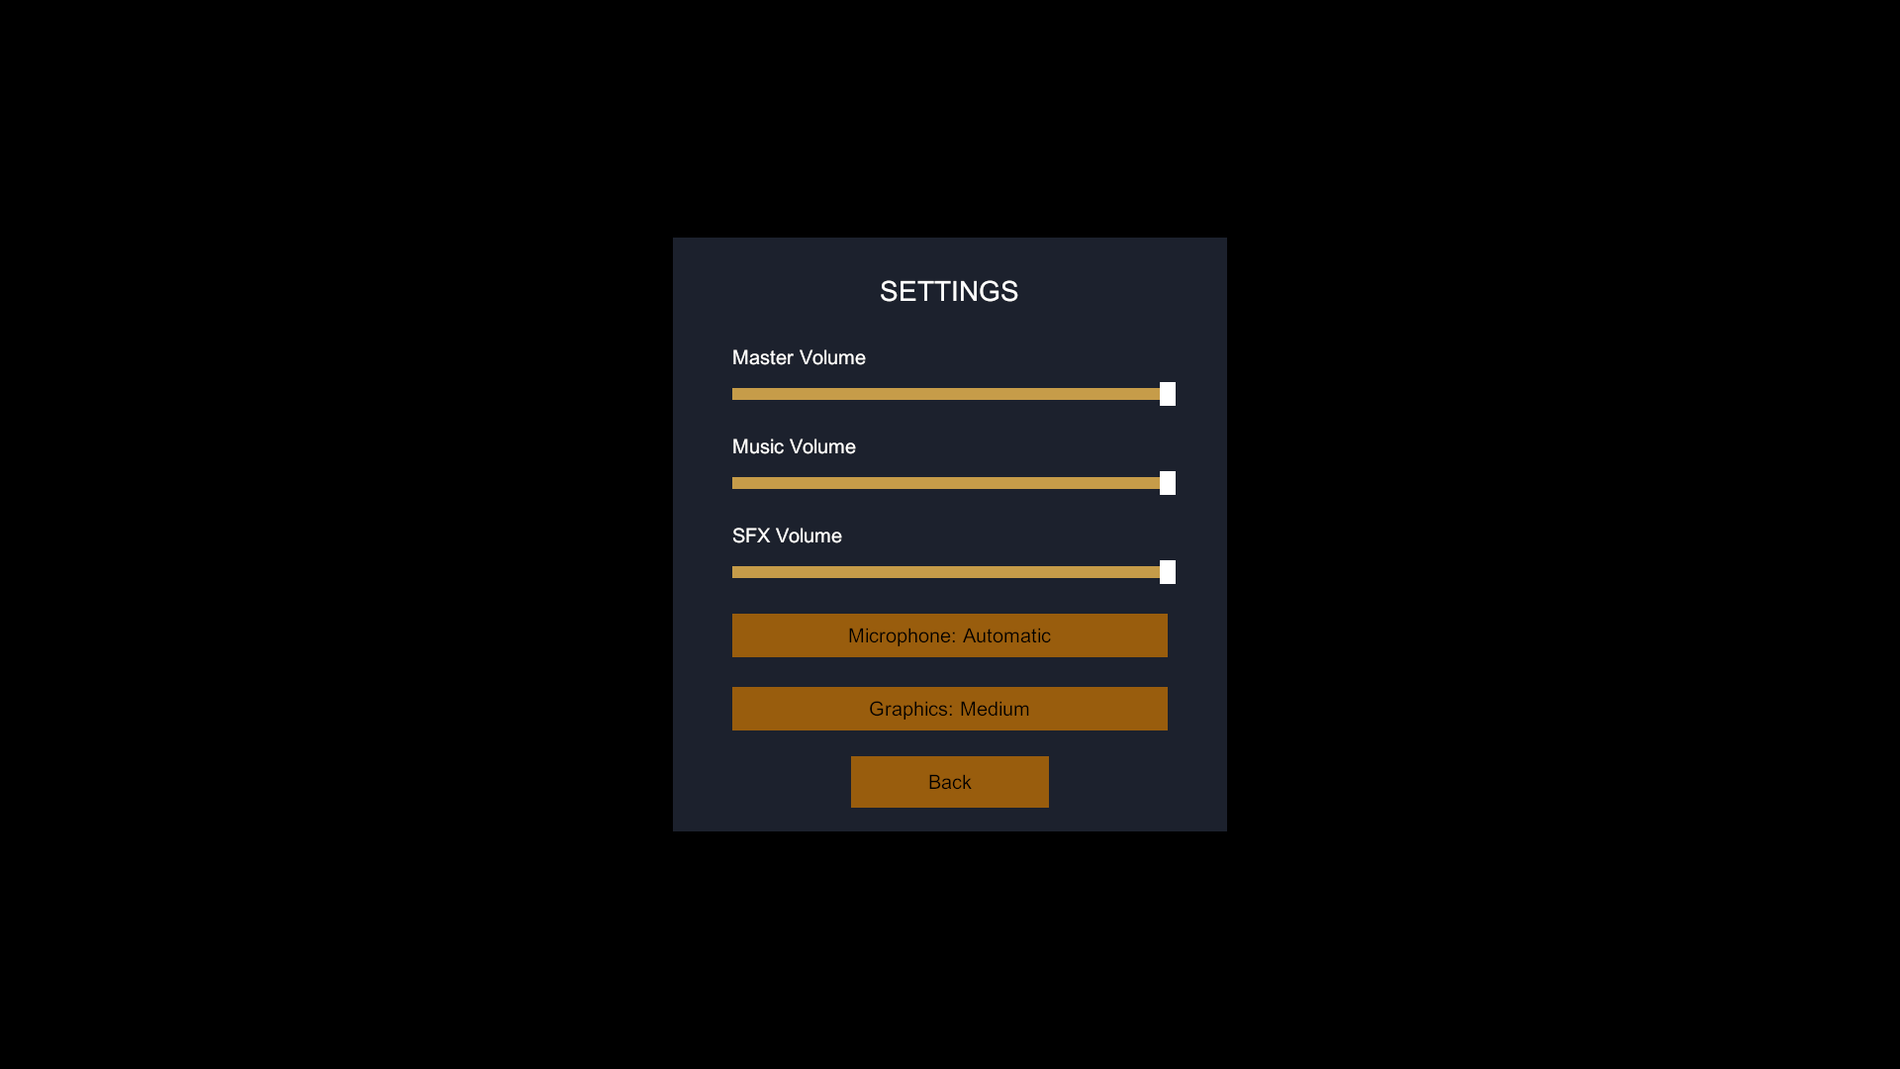
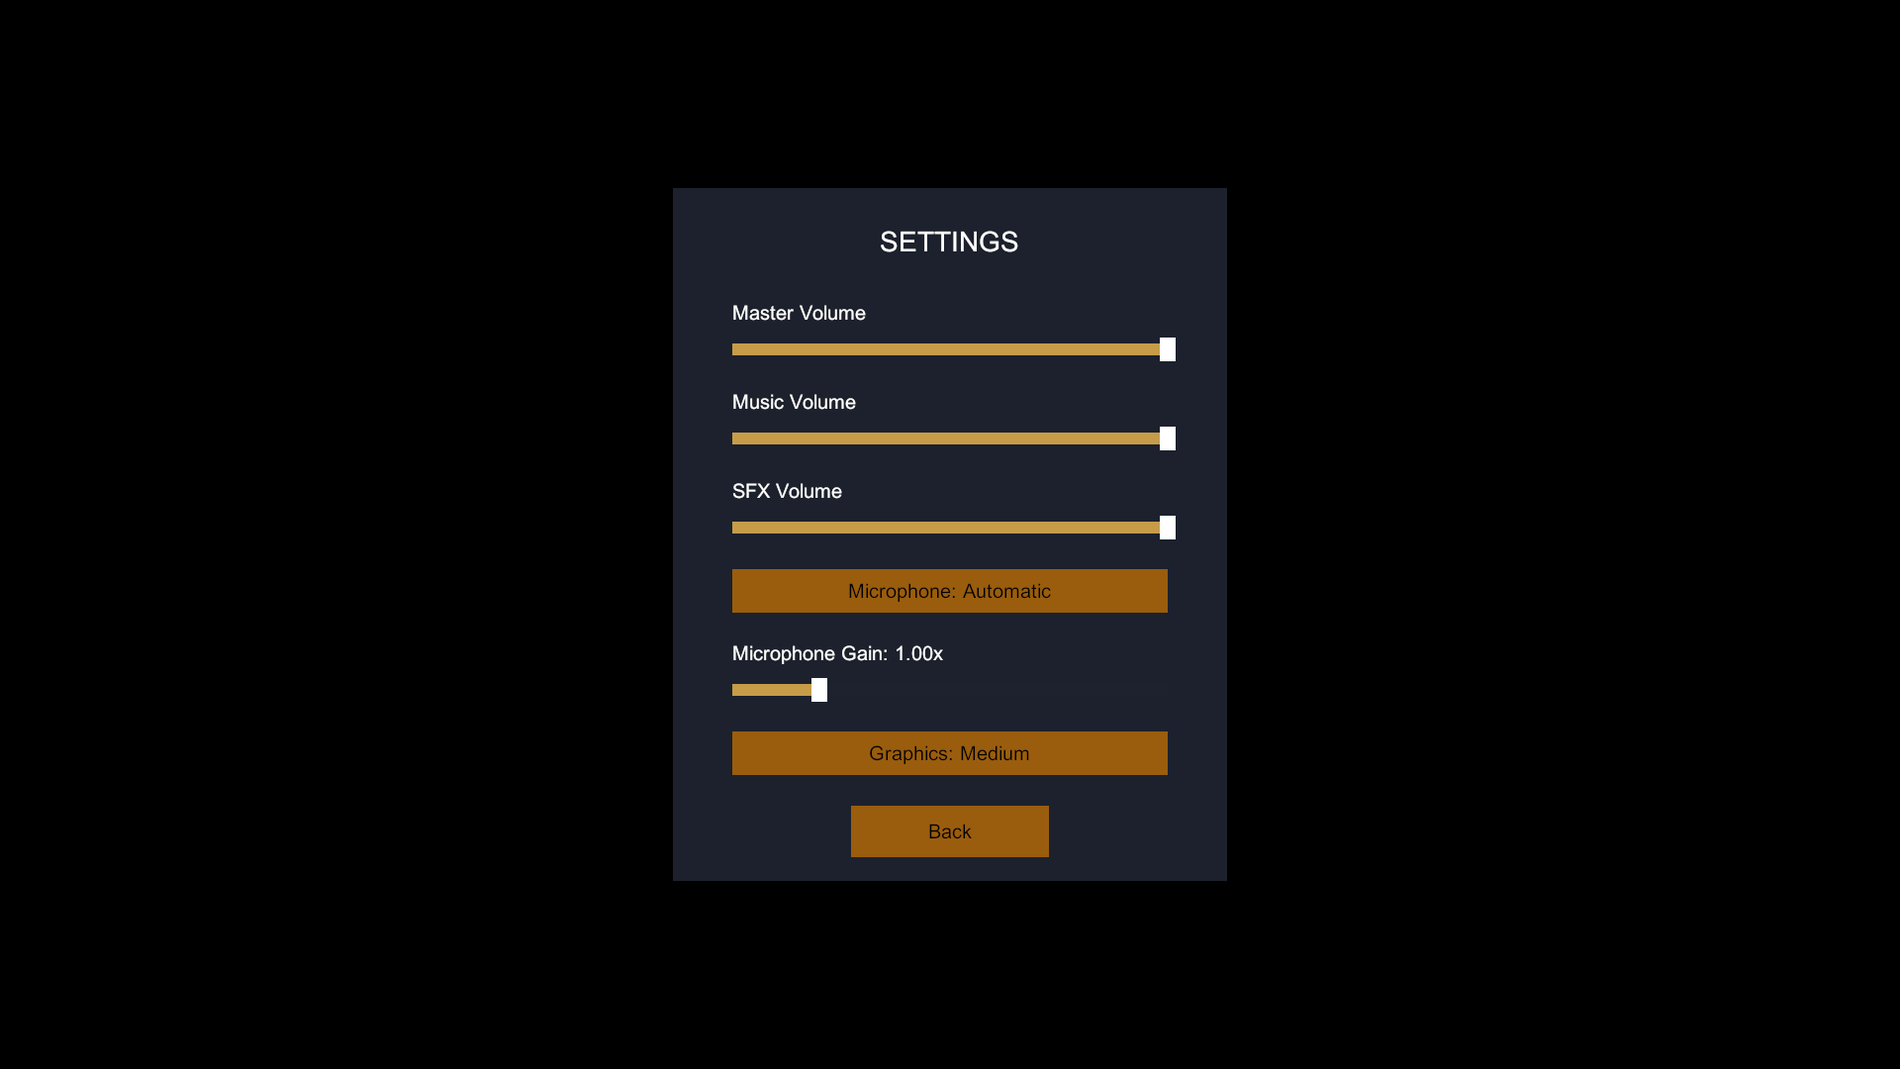
feat: microphone gain slider in Settings (#125)
0.25x to 4x, saved in PlayerPrefs (AudioInputSettings.MicGain). The
Vosk service reads it when the cast key goes down and amplifies every
sample, clipping at full scale, before recognition, loudness and the
level meter see it: a quiet headset can reach a normal or shouted cast,
a hot one can be turned down.

Compiled and tested in Unity batch mode (the Editor had closed):
MicGainTests 4/4; PlayMode 230/233 with the known guard test, the
cursor-lock test that needs a window, and a raid lexicon test that
passed twice on its own; EditMode 69 pass, 3 skip, 2 known/owner fails.

Changed region(s): [[0.3438, 0.1528, 0.6562, 0.825]]

diff --git a/Tools/docs/edits/2026-09-26-mic-gain.py b/Tools/docs/edits/2026-09-26-mic-gain.py
@@ -1,0 +1,66 @@
+"""One-off doc edit for the microphone gain (#125, 2026-09-26): voice doc, its plain copy, state,
+today. Fails on its own asserts if re-run after it has applied."""
+import os
+import re
+import subprocess
+
+os.chdir(os.path.join(os.path.dirname(__file__), '..', '..', '..'))
+
+
+def sub(p, old, new):
+    s = open(p, encoding='utf-8').read()
+    assert s.count(old) == 1, (p, old[:70], s.count(old))
+    open(p, 'w', encoding='utf-8', newline='').write(s.replace(old, new))
+
+
+p = 'docs/4-systems/voice.md'
+sub(p, '''While V is held the same spot shows the open microphone and a live level meter with the
+whisper/shout marks.
+''', '''While V is held the same spot shows the open microphone and a live level meter with the
+whisper/shout marks.
+
+### Microphone gain
+
+Added 2026-09-26 (#125). Settings has a **Microphone Gain** slider, 0.25x to 4x, saved as
+`AudioInputSettings.MicGain` (PlayerPrefs `Settings.MicGain`, 1 when unset). `VoskVoiceInputService`
+reads it when the cast key goes down and multiplies every sample by it, clipping at full scale
+(`VoiceUtility.ApplyGain`), before anything else sees the audio: the recogniser, the loudness
+classification and the level meter all hear the same, amplified voice. So a quiet headset can
+reach a normal or shouted cast, and a hot one can be turned down so a normal voice is not a shout.
+Raising it also raises background noise into the recogniser. Tests: `MicGainTests`.
+''')
+sub(p, '''- **The loudness thresholds (`Whisper` < 0.1, `Shout` > 0.4 RMS) were set without a real
+  microphone.** Headset gain varies a lot; until issue #47's meter exists, check `[Vosk] Heard ...`
+  lines in the log for the RMS a normal voice actually produces.''', '''- **The loudness thresholds (`Whisper` < 0.1, `Shout` > 0.4 RMS) were set without a real
+  microphone.** Headset gain varies a lot, which is what the Settings gain slider is for: hold V
+  and watch the level meter against the whisper/shout marks while adjusting it.''')
+
+p = 'docs/plain/4-systems/voice.md'
+sub(p, '''4. How loudly a word was said is measured and classified as a whisper, normal, or a shout,
+   using the same method regardless of which recognition path is active.''', '''4. How loudly a word was said is measured and classified as a whisper, normal, or a shout,
+   using the same method regardless of which recognition path is active. A gain setting turns a
+   quiet microphone up, or a loud one down, before any of this happens.''')
+
+p = 'docs/3-state/ProjectState.md'
+sub(p, '''neither word has been tried with a real voice (`docs/4-systems/spells.md`, "Velox and
+Saltus").''', '''neither word has been tried with a real voice (`docs/4-systems/spells.md`, "Velox and
+Saltus"). Settings has a microphone gain slider (#125; `docs/4-systems/voice.md`, "Microphone
+gain").''')
+
+p = 'docs/5-today/Today.md'
+sub(p, '''Tests before those two:''', '''Later: the owner's spell retune committed (a 10 m dash, a 13 m leap, stronger Levo). #155 closed
+as a duplicate of #156. #125: a microphone gain slider in Settings, 0.25x to 4x, applied to the
+audio before recognition and loudness. The Editor had closed, so this was compiled and tested with
+Unity in batch mode: PlayMode 230 of 233 (the known guard test; the cursor-lock test, which needs a
+window; and `RaidSceneCastingTests`' lexicon test, which then passed twice on its own), EditMode
+69 pass, 3 skip, 2 fail (the known art import test; the owner's Rolled Tapestry edit). The new
+Settings row's layout has not been looked at.
+
+Tests before those two:''')
+
+for plain, source in [('docs/plain/4-systems/voice.md', 'docs/4-systems/voice.md'),
+                      ('docs/plain/3-state/ProjectState.md', 'docs/3-state/ProjectState.md')]:
+    h = subprocess.run(['git', 'hash-object', source], capture_output=True, text=True).stdout.strip()
+    s = open(plain, encoding='utf-8').read()
+    open(plain, 'w', encoding='utf-8', newline='').write(re.sub(r'@ [0-9a-f]{40} -->', '@ ' + h + ' -->', s, count=1))
+print('ok')

diff --git a/Assets/_Project/Scripts/Runtime/UI/Screens/SettingsScreen.cs b/Assets/_Project/Scripts/Runtime/UI/Screens/SettingsScreen.cs
@@ -15,7 +15,7 @@ namespace Plunderspell.UI.Screens
         protected override void OnBuild()
         {
             UIFactory.CreateFullStretchPanel(transform, "Overlay", new Color(0f, 0f, 0f, 0.7f));
-            var panel = UIFactory.CreatePanel(transform, "Panel", new Vector2(0.5f, 0.5f), new Vector2(0.5f, 0.5f), new Vector2(560f, 600f), Vector2.zero, UITheme.PanelBackground);
+            var panel = UIFactory.CreatePanel(transform, "Panel", new Vector2(0.5f, 0.5f), new Vector2(0.5f, 0.5f), new Vector2(560f, 700f), Vector2.zero, UITheme.PanelBackground);
 
             var title = UIFactory.CreateText(panel, "Title", "SETTINGS", UITheme.HeaderFontSize, UITheme.TextPrimary);
             title.rectTransform.anchorMin = new Vector2(0.5f, 1f);
@@ -29,7 +29,7 @@ namespace Plunderspell.UI.Screens
             var listRect = (RectTransform)listGo.transform;
             listRect.anchorMin = new Vector2(0.5f, 0.5f);
             listRect.anchorMax = new Vector2(0.5f, 0.5f);
-            listRect.sizeDelta = new Vector2(440f, 360f);
+            listRect.sizeDelta = new Vector2(440f, 450f);
             listRect.anchoredPosition = new Vector2(0f, 10f);
             UIFactory.AddVerticalLayout(listRect, 30f, new RectOffset(0, 0, 0, 0));
 
@@ -40,6 +40,8 @@ namespace Plunderspell.UI.Screens
             var micButton = UIFactory.CreateButton(listRect, "MicrophoneButton", string.Empty, CycleMicrophone, new Vector2(440f, 44f));
             _microphoneLabel = micButton.GetComponentInChildren<Text>();
             RefreshMicrophoneLabel();
+
+            AddMicGainRow(listRect);
 
             var graphicsButton = UIFactory.CreateButton(listRect, "GraphicsButton", string.Empty, CycleGraphics, new Vector2(440f, 44f));
             _graphicsLabel = graphicsButton.GetComponentInChildren<Text>();
@@ -71,6 +73,44 @@ namespace Plunderspell.UI.Screens
             var slider = UIFactory.CreateSlider(rowRect, "Slider", 0f, 1f, startValue, onChanged, new Vector2(440f, 24f));
             slider.GetComponent<RectTransform>().anchoredPosition = new Vector2(0f, -18f);
         }
+
+        /// <summary>
+        /// The microphone gain (#125): how much a quiet microphone is turned up before the game hears
+        /// it. The level meter while holding V shows the result.
+        /// </summary>
+        private void AddMicGainRow(Transform parent)
+        {
+            var rowGo = new GameObject("MicGainRow", typeof(RectTransform));
+            rowGo.transform.SetParent(parent, false);
+            var rowRect = (RectTransform)rowGo.transform;
+            rowRect.sizeDelta = new Vector2(440f, 60f);
+
+            _micGainLabel = UIFactory.CreateText(rowRect, "Label", string.Empty, UITheme.BodyFontSize, UITheme.TextPrimary, TextAnchor.UpperLeft);
+            _micGainLabel.rectTransform.anchorMin = new Vector2(0f, 1f);
+            _micGainLabel.rectTransform.anchorMax = new Vector2(1f, 1f);
+            _micGainLabel.rectTransform.pivot = new Vector2(0.5f, 1f);
+            _micGainLabel.rectTransform.sizeDelta = new Vector2(0f, 24f);
+            _micGainLabel.rectTransform.anchoredPosition = Vector2.zero;
+
+            var slider = UIFactory.CreateSlider(rowRect, "Slider", AudioInputSettings.MinMicGain,
+                AudioInputSettings.MaxMicGain, AudioInputSettings.MicGain, OnMicGainChanged, new Vector2(440f, 24f));
+            slider.GetComponent<RectTransform>().anchoredPosition = new Vector2(0f, -18f);
+            RefreshMicGainLabel();
+        }
+
+        private void OnMicGainChanged(float value)
+        {
+            AudioInputSettings.MicGain = value;
+            RefreshMicGainLabel();
+        }
+
+        private void RefreshMicGainLabel()
+        {
+            if (_micGainLabel != null)
+                _micGainLabel.text = $"Microphone Gain: {AudioInputSettings.MicGain:0.00}x";
+        }
+
+        private Text _micGainLabel;
 
         private void OnMasterVolumeChanged(float value)
         {

diff --git a/Assets/_Project/Scripts/Tests/Runtime/MicGainTests.cs b/Assets/_Project/Scripts/Tests/Runtime/MicGainTests.cs
@@ -1,0 +1,87 @@
+using NUnit.Framework;
+using Plunderspell.Core;
+using Plunderspell.Voice;
+using UnityEngine;
+
+namespace Plunderspell.Tests
+{
+    /// <summary>
+    /// The Settings microphone gain (#125): it turns a quiet microphone up before loudness is judged,
+    /// clips rather than wraps, and stays inside its range.
+    /// </summary>
+    public class MicGainTests
+    {
+        private float _savedGain;
+        private bool _hadGain;
+
+        [SetUp]
+        public void SaveGain()
+        {
+            _hadGain = PlayerPrefs.HasKey(AudioInputSettings.MicGainKey);
+            _savedGain = PlayerPrefs.GetFloat(AudioInputSettings.MicGainKey, 1f);
+        }
+
+        [TearDown]
+        public void RestoreGain()
+        {
+            if (_hadGain)
+                PlayerPrefs.SetFloat(AudioInputSettings.MicGainKey, _savedGain);
+            else
+                PlayerPrefs.DeleteKey(AudioInputSettings.MicGainKey);
+        }
+
+        private static float[] Tone(float amplitude, int count = 1600)
+        {
+            var samples = new float[count];
+            for (int i = 0; i < count; i++)
+                samples[i] = amplitude * Mathf.Sin(i * 0.3f);
+            return samples;
+        }
+
+        [Test]
+        public void Test_GainTurnsAQuietMicrophoneUpToANormalCast()
+        {
+            float[] voice = Tone(0.1f); // RMS about 0.07: a whisper as recorded
+            Assert.AreEqual(CastVolume.Whisper, VoiceUtility.ClassifyVolume(VoiceUtility.ComputeRms(voice, voice.Length)));
+
+            VoiceUtility.ApplyGain(voice, voice.Length, 3f);
+
+            Assert.AreEqual(CastVolume.Normal, VoiceUtility.ClassifyVolume(VoiceUtility.ComputeRms(voice, voice.Length)),
+                "Three times the gain must lift that voice to a normal cast.");
+        }
+
+        [Test]
+        public void Test_GainBelowOneQuietsAHotMicrophone()
+        {
+            float[] voice = Tone(0.7f); // a normal voice on a hot mic reads as a shout
+            Assert.AreEqual(CastVolume.Shout, VoiceUtility.ClassifyVolume(VoiceUtility.ComputeRms(voice, voice.Length)));
+
+            VoiceUtility.ApplyGain(voice, voice.Length, 0.5f);
+
+            Assert.AreEqual(CastVolume.Normal, VoiceUtility.ClassifyVolume(VoiceUtility.ComputeRms(voice, voice.Length)));
+        }
+
+        [Test]
+        public void Test_GainClipsAtFullScale()
+        {
+            float[] voice = Tone(0.9f);
+            VoiceUtility.ApplyGain(voice, voice.Length, 4f);
+
+            foreach (float s in voice)
+                Assert.LessOrEqual(Mathf.Abs(s), 1f, "Amplified samples clip at full scale, as a preamp would.");
+        }
+
+        [Test]
+        public void Test_TheSavedGainStaysInRange()
+        {
+            AudioInputSettings.MicGain = 100f;
+            Assert.AreEqual(AudioInputSettings.MaxMicGain, AudioInputSettings.MicGain);
+
+            AudioInputSettings.MicGain = 0f;
+            Assert.AreEqual(AudioInputSettings.MinMicGain, AudioInputSettings.MicGain);
+
+            PlayerPrefs.DeleteKey(AudioInputSettings.MicGainKey);
+            Assert.AreEqual(1f, AudioInputSettings.MicGain, "No saved gain means the microphone as recorded.");
+        }
+    }
+}

diff --git a/Assets/_Project/Scripts/Runtime/Core/GameFlow/AudioInputSettings.cs b/Assets/_Project/Scripts/Runtime/Core/GameFlow/AudioInputSettings.cs
@@ -1,12 +1,35 @@
+using UnityEngine;
+
 namespace Plunderspell.Core
 {
     /// <summary>
-    /// Where the player's microphone choice is saved. Shared by the Settings screen (which writes it)
-    /// and the voice service (which reads it), neither of which can reference the other.
+    /// Where the player's microphone choices are saved. Shared by the Settings screen (which writes
+    /// them) and the voice service (which reads them), neither of which can reference the other.
     /// </summary>
     public static class AudioInputSettings
     {
         /// <summary>PlayerPrefs key holding the chosen microphone's device name; empty means automatic.</summary>
         public const string MicrophoneKey = "Settings.Microphone";
+
+        /// <summary>PlayerPrefs key holding the microphone gain (#125).</summary>
+        public const string MicGainKey = "Settings.MicGain";
+
+        public const float MinMicGain = 0.25f;
+        public const float MaxMicGain = 4f;
+
+        /// <summary>
+        /// How much the microphone is amplified before speech recognition and loudness see it:
+        /// 1 is as recorded. A quiet microphone needs more to reach a normal or shouted cast; a hot
+        /// one needs less so a normal voice does not read as a shout.
+        /// </summary>
+        public static float MicGain
+        {
+            get => Mathf.Clamp(PlayerPrefs.GetFloat(MicGainKey, 1f), MinMicGain, MaxMicGain);
+            set
+            {
+                PlayerPrefs.SetFloat(MicGainKey, Mathf.Clamp(value, MinMicGain, MaxMicGain));
+                PlayerPrefs.Save();
+            }
+        }
     }
 }

diff --git a/Assets/_Project/Scripts/Runtime/Voice/VoskVoiceInputService.cs b/Assets/_Project/Scripts/Runtime/Voice/VoskVoiceInputService.cs
@@ -64,6 +64,10 @@ namespace Plunderspell.Voice
         // the next press. It is opened once (WarmUp) and closed when the service goes away.
         private int _lastSamplePosition;
         private float[] _floatBuffer = new float[SampleRate];
+
+        // The Settings microphone gain, read when the cast key goes down so a change applies to the
+        // next cast without a lookup every frame.
+        private float _gain = 1f;
         private short[] _shortBuffer = new short[SampleRate];
         private MainThreadPump _pump;
 
@@ -152,6 +156,7 @@ namespace Plunderspell.Voice
             _lastSamplePosition = Microphone.GetPosition(_micDevice);
             LastPeakRms = 0f;
             CurrentRms = 0f;
+            _gain = Plunderspell.Core.AudioInputSettings.MicGain;
             CurrentDevice = _micDevice;
             IsListening = true;
             Debug.Log($"[Vosk] Listening on '{_micDevice}'.");
@@ -322,6 +327,8 @@ namespace Plunderspell.Voice
             _micClip.GetData(_floatBuffer, _lastSamplePosition);
             _lastSamplePosition = position;
 
+            // Gain first, so recognition, loudness and the level meter all hear the same voice.
+            VoiceUtility.ApplyGain(_floatBuffer, available, _gain);
             CurrentRms = VoiceUtility.ComputeRms(_floatBuffer, available);
             LastPeakRms = Mathf.Max(LastPeakRms, CurrentRms);
             for (int i = 0; i < available; i++)

diff --git a/Assets/_Project/Scripts/Runtime/Voice/IVoiceInputService.cs b/Assets/_Project/Scripts/Runtime/Voice/IVoiceInputService.cs
@@ -116,6 +116,18 @@ namespace Plunderspell.Voice
             return sb.ToString().Trim();
         }
 
+        /// <summary>
+        /// Amplifies the first <paramref name="count"/> samples in place by <paramref name="gain"/>
+        /// (the Settings microphone gain, #125), clipping at full scale as a real preamp would.
+        /// </summary>
+        public static void ApplyGain(float[] samples, int count, float gain)
+        {
+            if (samples == null || UnityEngine.Mathf.Approximately(gain, 1f))
+                return;
+            for (int i = 0; i < count; i++)
+                samples[i] = UnityEngine.Mathf.Clamp(samples[i] * gain, -1f, 1f);
+        }
+
         /// <summary>Compute RMS amplitude of a float PCM buffer in the range 0..1.</summary>
         public static float ComputeRms(float[] samples, int count)
         {

diff --git a/docs/4-systems/voice.md b/docs/4-systems/voice.md
@@ -78,6 +78,16 @@ what the recogniser output, so a mis-recognition reads differently from a real m
 While V is held the same spot shows the open microphone and a live level meter with the
 whisper/shout marks.
 
+### Microphone gain
+
+Added 2026-09-26 (#125). Settings has a **Microphone Gain** slider, 0.25x to 4x, saved as
+`AudioInputSettings.MicGain` (PlayerPrefs `Settings.MicGain`, 1 when unset). `VoskVoiceInputService`
+reads it when the cast key goes down and multiplies every sample by it, clipping at full scale
+(`VoiceUtility.ApplyGain`), before anything else sees the audio: the recogniser, the loudness
+classification and the level meter all hear the same, amplified voice. So a quiet headset can
+reach a normal or shouted cast, and a hot one can be turned down so a normal voice is not a shout.
+Raising it also raises background noise into the recogniser. Tests: `MicGainTests`.
+
 ## Invariants
 
 - **Both providers must classify and normalise identically.** `VoiceUtility` is the single place
@@ -108,7 +118,7 @@ whisper/shout marks.
 - **A machine with no microphone, or no model installed, silently downgrades to keyboard-only
   casting**, even in a real Windows build. The console says so, the player's screen does not.
 - **The loudness thresholds (`Whisper` < 0.1, `Shout` > 0.4 RMS) were set without a real
-  microphone.** Headset gain varies a lot; until issue #47's meter exists, check `[Vosk] Heard ...`
-  lines in the log for the RMS a normal voice actually produces.
+  microphone.** Headset gain varies a lot, which is what the Settings gain slider is for: hold V
+  and watch the level meter against the whisper/shout marks while adjusting it.
 - **Unity's `Microphone` device list includes virtual devices** (e.g. "Virtual Desktop Audio").
   The service uses the system default (`null`), not `devices[0]`, for exactly this reason.

diff --git a/docs/5-today/Today.md b/docs/5-today/Today.md
@@ -42,6 +42,14 @@ Warden 1.8 m away from 80 to 56.9 health, both misfires did their misfire and sp
 no longer moves the player. Captures: `docs/generated/dodge-and-leap-2026-09-26/`. Not tried: the
 two words spoken by a real person; two machines.
 
+Later: the owner's spell retune committed (a 10 m dash, a 13 m leap, stronger Levo). #155 closed
+as a duplicate of #156. #125: a microphone gain slider in Settings, 0.25x to 4x, applied to the
+audio before recognition and loudness. The Editor had closed, so this was compiled and tested with
+Unity in batch mode: PlayMode 230 of 233 (the known guard test; the cursor-lock test, which needs a
+window; and `RaidSceneCastingTests`' lexicon test, which then passed twice on its own), EditMode
+69 pass, 3 skip, 2 fail (the known art import test; the owner's Rolled Tapestry edit). The new
+Settings row, as the UI verification test captured it: `UI_Verification_Screenshots/05_Settings.png`.
+
 Tests before those two: PlayMode 213 of 214 pass. `GuardAttackTests.Test_EveryAttackBumpsTheReplicatedSignal`
 fails; it was not touched by this work and is flagged as its own task. EditMode: all pass except
 the known `ArtAssetImportTests` failure (3 skipped). Seen along the way: Late Medieval castles still

diff --git a/docs/plain/4-systems/voice.md b/docs/plain/4-systems/voice.md
@@ -1,4 +1,4 @@
-<!-- plain copy of: docs/4-systems/voice.md @ 77e4b76b3fbf778876ae536b5f1ec01ec02405da -->
+<!-- plain copy of: docs/4-systems/voice.md @ 20a54550bc8ab48360c82624fb00d58528ce9057 -->
 
 # Voice
 
@@ -20,7 +20,8 @@ without the player ever knowing why.
 3. Speech recognition only knows English, but the spell words are Latin, so each word is taught a
    set of English spellings that count as saying it correctly or nearly correctly.
 4. How loudly a word was said is measured and classified as a whisper, normal, or a shout,
-   using the same method regardless of which recognition path is active.
+   using the same method regardless of which recognition path is active. A gain setting turns a
+   quiet microphone up, or a loud one down, before any of this happens.
 5. What the player said, and what it resolved to, is shown on screen for a few seconds:
    a clean cast, a garbled misfire, or a silent fizzle that was not a spell at all.
 

diff --git a/docs/3-state/ProjectState.md b/docs/3-state/ProjectState.md
@@ -82,7 +82,8 @@ in the hand, and pieces too heavy to lift are towed slowly behind you, slowing y
 gone (Decisions, 2026-09-26). Velox (a dash, the only dodge) and Saltus (a high jump that the jump
 key turns into a slam) replace Tonitrus and Cadaver Surge on keys 5 and 7, checked in a raid in the
 Editor; neither word has been tried with a real voice (`docs/4-systems/spells.md`, "Velox and
-Saltus").
+Saltus"). Settings has a microphone gain slider (#125; `docs/4-systems/voice.md`, "Microphone
+gain").
 
 **2026-09-25 — the castle has its night look** (`claude/night-atmosphere`, not merged). Steps 1-4
 of `docs/plans/night-atmosphere.md` built: see `docs/4-systems/atmosphere.md`. Open: volumetric fog

diff --git a/docs/plain/3-state/ProjectState.md b/docs/plain/3-state/ProjectState.md
@@ -1,4 +1,4 @@
-<!-- plain copy of: docs/3-state/ProjectState.md @ 50868c3c242c9d18560e02d037a50dd764aa8c1d -->
+<!-- plain copy of: docs/3-state/ProjectState.md @ f7eced19e4c0369b2f0a99b38bf4b21e49aef57b -->
 
 # Project state
 
